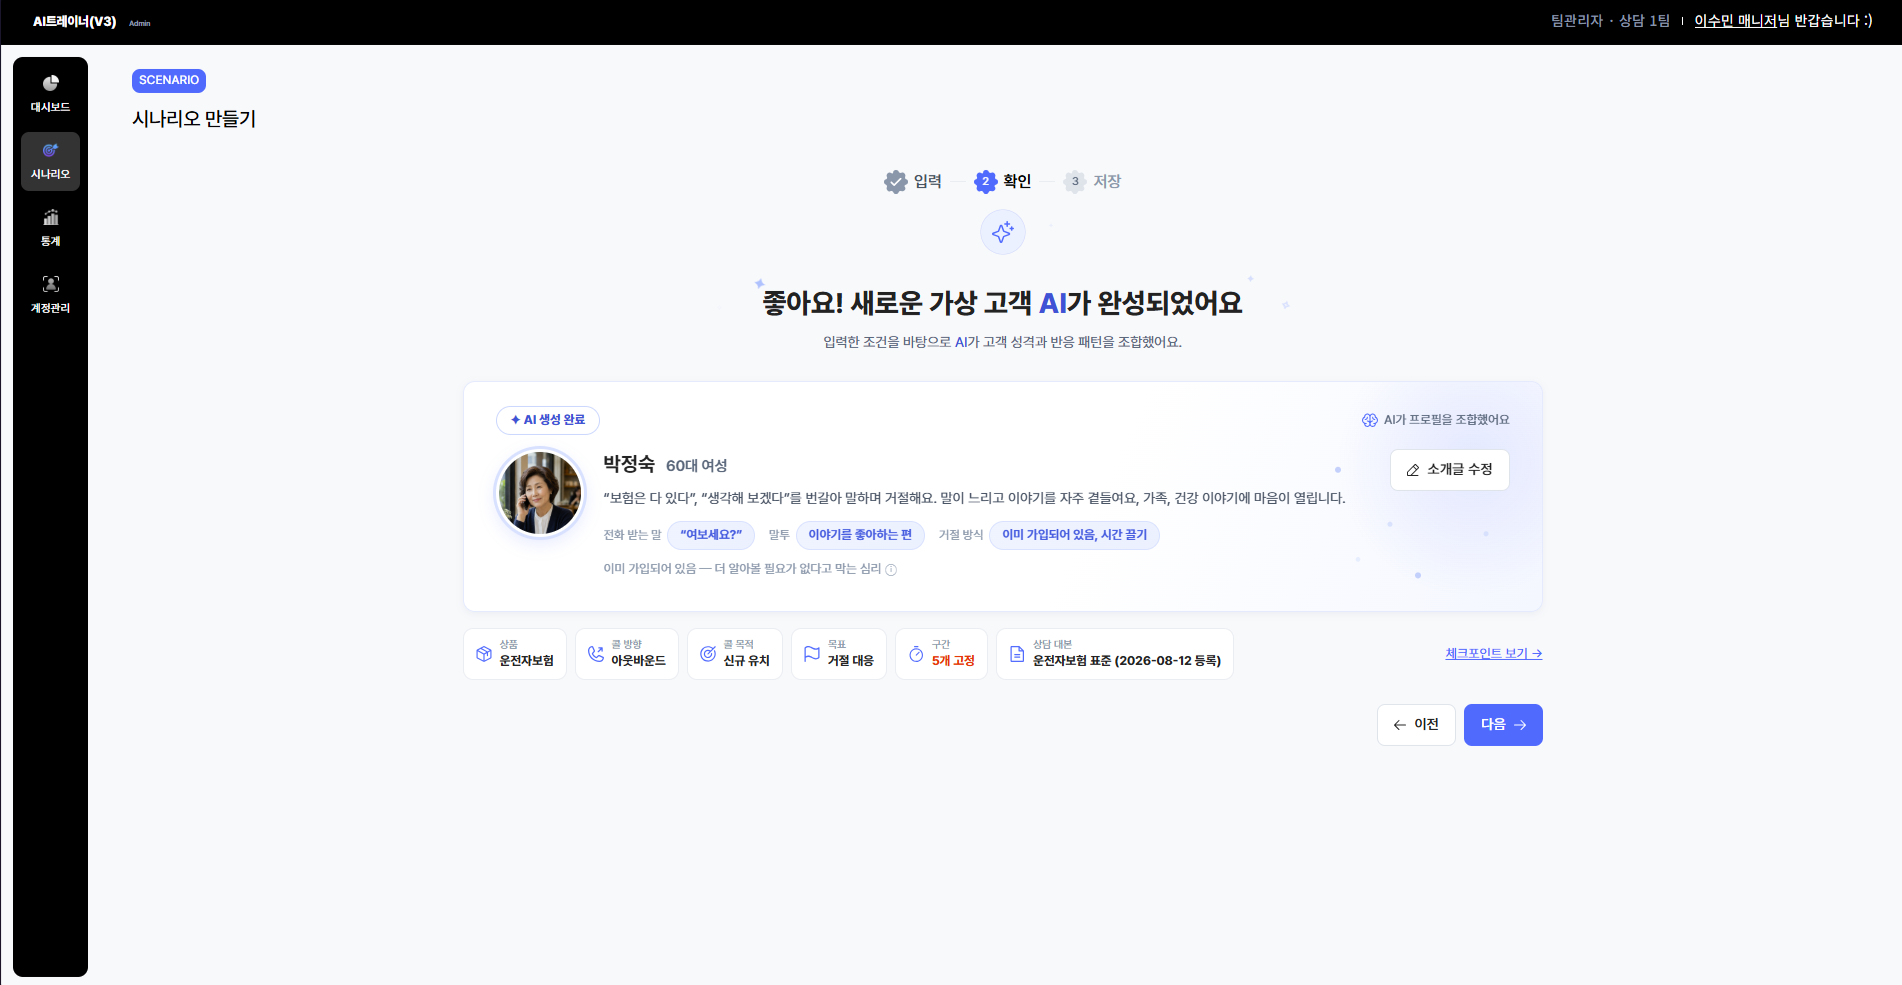
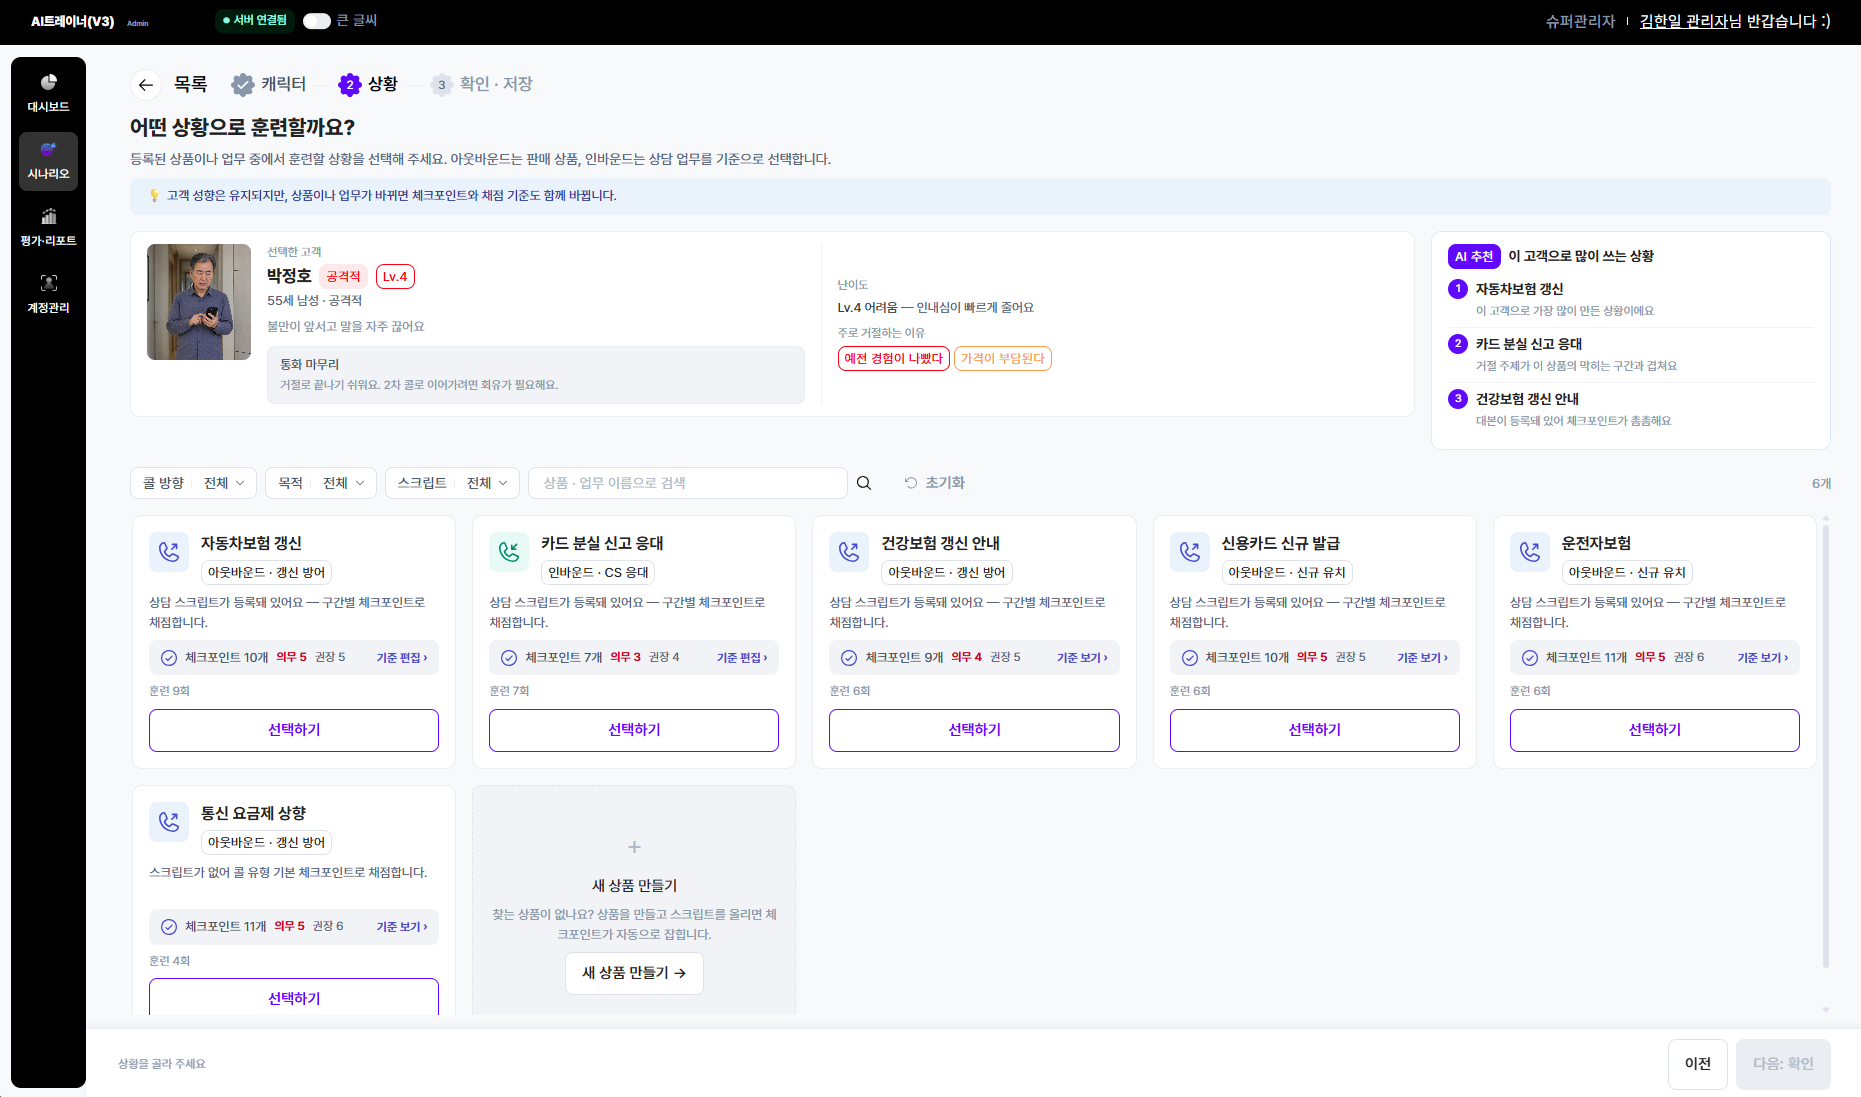
Update admin screenshots to redesigned scenario-maker (character/situation)

diff --git a/public/ux.html b/public/ux.html
@@ -254,7 +254,7 @@
       <div class="flow-step">
         <div class="k">기획 결정</div>
         <h3>관리자 배포형 구조에서 자율 훈련 구조로 재설계</h3>
-        <p>관리자는 표준 대본을 고르고 고객을 자연어 한 칸으로 소개만 하면, 시나리오와 채점 기준은 시스템이 자동 생성합니다. 상담사는 레벨과 클리어율, 팀 리더보드로 스스로 훈련하고, 실전과 연습을 분리해 성적을 관리합니다. 관리자의 반복적인 운영 개입을 최소화하고, 상담사가 스스로 훈련하는 서비스 루프로 다시 설계했습니다.</p>
+        <p>관리자는 고객과 상황을 고르기만 하면, 시나리오와 채점 기준은 시스템이 자동 생성합니다. 상담사는 레벨과 클리어율, 팀 리더보드로 스스로 훈련하고, 실전과 연습을 분리해 성적을 관리합니다. 관리자의 반복적인 운영 개입을 최소화하고, 상담사가 스스로 훈련하는 서비스 루프로 다시 설계했습니다.</p>
       </div>
       <div class="flow-arrow">↓</div>
       <div class="flow-step">
@@ -263,7 +263,7 @@
         <div class="sol-grid">
           <div class="sol">게임형 훈련<span>레벨, 클리어율, 별점으로 스스로 도전</span></div>
           <div class="sol">실전 / 연습 분리<span>실전은 기간이 열리는 회차로만</span></div>
-          <div class="sol">AI 고객 자동 생성<span>대본 × 고객 소개 × 난이도</span></div>
+          <div class="sol">AI 고객 자동 생성<span>고객 × 상황 × 난이도</span></div>
           <div class="sol">관리자 3걸음<span>입력 → 확인 → 저장</span></div>
           <div class="sol">자동 채점<span>대본 체크포인트 + 거절 8종</span></div>
           <div class="sol">넛지 운영<span>스트릭, 데일리, 팀 리더보드</span></div>
@@ -289,8 +289,8 @@
       <figure class="shot"><img src="/ux-img/v2-roleplay.png" alt="실전 롤플레잉 통화"><figcaption class="cap">② 실전 롤플레잉 — AI 고객과 실시간 통화</figcaption></figure>
       <figure class="shot"><img src="/ux-img/v2-result.png" alt="훈련 결과"><figcaption class="cap">③ 훈련 결과 — 자동 채점과 AI 코칭</figcaption></figure>
     </div>
-    <figure class="wide"><img src="/ux-img/v2-admin-input.png" alt="관리자 웹 시나리오 만들기 입력"><figcaption class="cap">관리자 웹 — 시나리오 만들기(입력): 상품과 고객 특징을 고르고, 자연어로 고객을 소개</figcaption></figure>
-    <figure class="wide"><img src="/ux-img/v2-admin-confirm.png" alt="관리자 웹 AI 고객 생성 확인"><figcaption class="cap">관리자 웹 — AI가 가상 고객을 생성(확인): 채점 기준까지 자동 구성 후 저장</figcaption></figure>
+    <figure class="wide"><img src="/ux-img/v2-admin-input.png" alt="관리자 웹 시나리오 만들기 고객 선택"><figcaption class="cap">관리자 웹 — 시나리오 만들기 ① 고객 선택: 30종 프리셋 고객 중 훈련 상대를 고름</figcaption></figure>
+    <figure class="wide"><img src="/ux-img/v2-admin-confirm.png" alt="관리자 웹 시나리오 만들기 상황 선택"><figcaption class="cap">관리자 웹 — 시나리오 만들기 ② 상황 선택: 상품과 상담 업무, 채점 기준(체크포인트)을 고름</figcaption></figure>
     <div class="ba-title" style="margin-top:34px">정책과 프로세스 설계 — 임시 비밀번호 발급 흐름</div>
     <figure class="wide" style="max-width:720px;margin-left:auto;margin-right:auto"><img src="/ux-img/v2-flow-core.png" alt="임시 비밀번호 발급 정책 흐름도"><figcaption class="cap" style="text-align:center">계정 발급부터 로그인 검증, 만료와 5회 잠금 예외까지, 화면 뒤의 로직과 정책을 직접 설계했습니다.</figcaption></figure>
 
